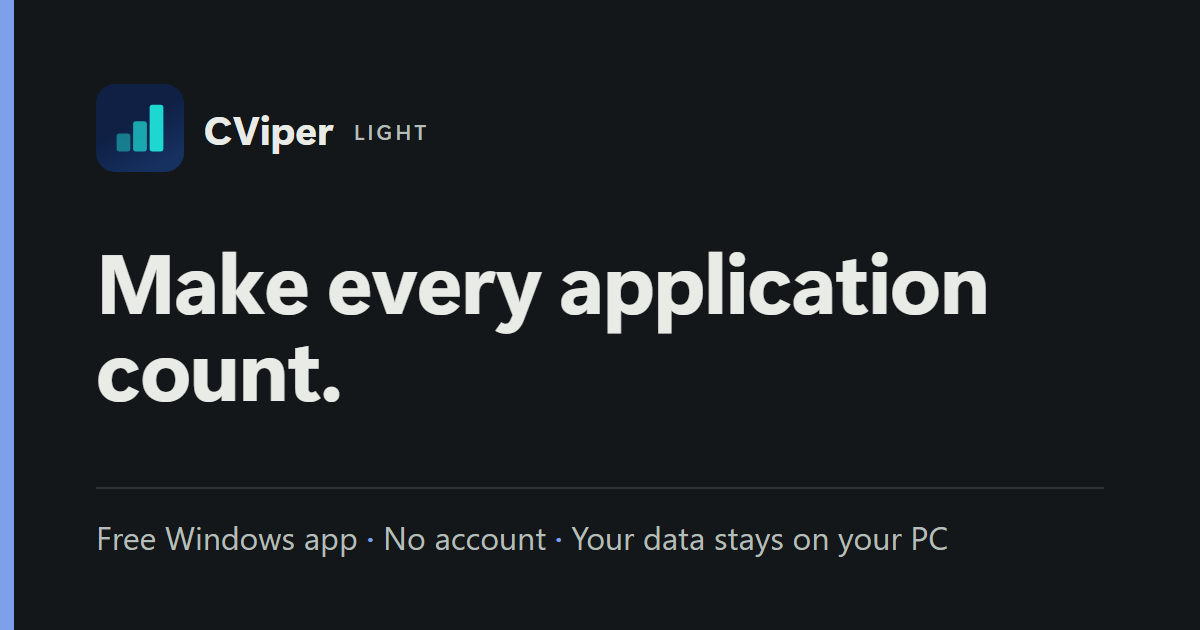
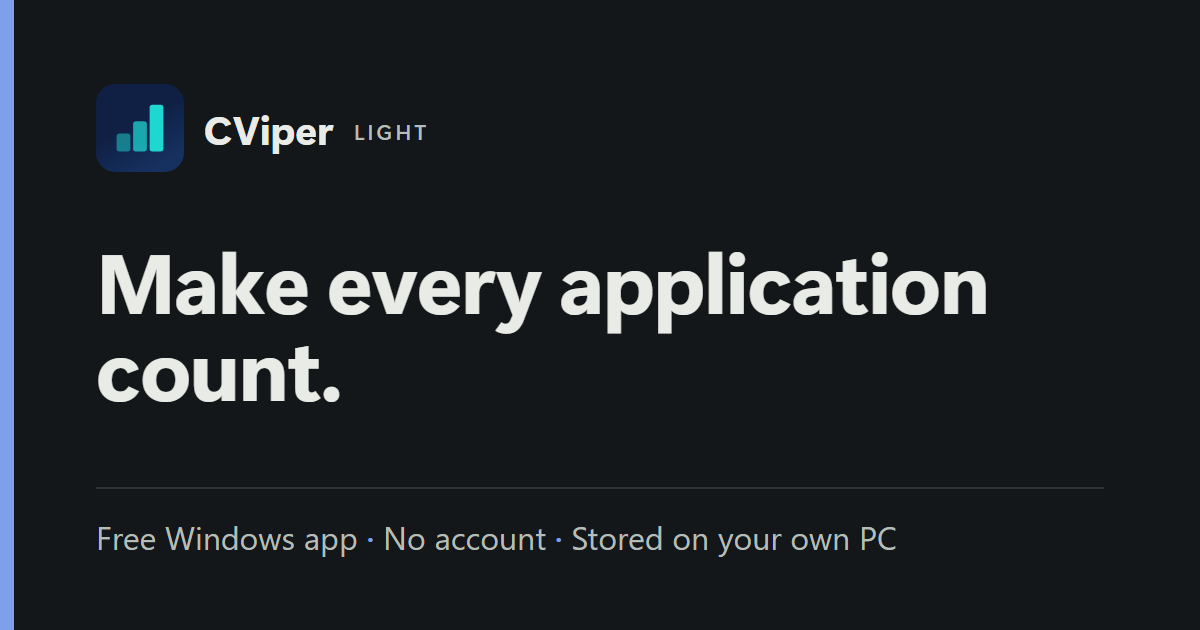
fix(landing): name all six AI providers, and stop saying data "stays on your PC" (cviper-light L-233)
- FAQ "Where do I get an AI key": the app has key cards for six providers
  (OpenAI, Anthropic, Google Gemini, Mistral, xAI Grok, OpenRouter) plus
  a user's own AI service; the page named two.
- Privacy page: transcribes the reworded short version from cviper-light
  9638d5a7 (#274) and updates the SOURCE STAMP from check_privacy_drift.py.
- og:image and its alt text said "your data stays on your PC", the
  over-claim L-233 removed from the app (the CV text goes to a cloud AI
  when the user asks). Now "Stored on your own PC". Re-rendered 1200x630.

Changed region(s): [[0.4625, 0.8143, 0.8017, 0.8746]]

diff --git a/index.html b/index.html
@@ -17,7 +17,7 @@
 <meta property="og:image" content="https://cviper.ai/og-image.png">
 <meta property="og:image:width" content="1200">
 <meta property="og:image:height" content="630">
-<meta property="og:image:alt" content="CViper Light logo with the headline: Make every application count. Free Windows app, no account, your data stays on your PC.">
+<meta property="og:image:alt" content="CViper Light logo with the headline: Make every application count. Free Windows app, no account, stored on your own PC.">
 <meta name="twitter:card" content="summary_large_image">
 
 <!--
@@ -240,7 +240,7 @@ footer .paused{margin-top:16px;max-width:62ch}
       <h2>Before you download.</h2>
       <div class="faq">
         <details><summary>Is it really free?</summary><p>Yes. The app is free and there is no paid tier. Tracking your applications, the basic CV match and job search all work with no key and nothing set up. If you want an AI to read your CV properly, add your own key and pay the provider directly — typically a few pence for a CV check — or run a model on your own PC for nothing.</p></details>
-        <details><summary>Where do I get an AI key, and what does it cost?</summary><p>From the provider you choose, under their API keys page. Today the app has a key screen for OpenAI (<a href="https://platform.openai.com/api-keys">platform.openai.com/api-keys</a>) and for Anthropic (<a href="https://console.anthropic.com/settings/keys">console.anthropic.com/settings/keys</a>); both bill your own account, and a typical CV check costs a few pence with either. The app tests the key before it saves it, keeps it in your computer's credential store, and never shows it back. Prefer no key at all? Install Ollama and the app uses a model on your own PC for free.</p></details>
+        <details><summary>Where do I get an AI key, and what does it cost?</summary><p>From the provider you choose, under their API keys page. The app has a key card for six: OpenAI, Anthropic, Google Gemini, Mistral, xAI Grok and OpenRouter — each card links to that provider's key page. You can also point it at an AI service of your own. Each provider bills your own account, and a typical CV check costs a few pence. The app tests the key before it saves it, keeps it in your computer's credential store, and never shows it back. Prefer no key at all? Install Ollama and the app uses a model on your own PC for free.</p></details>
         <details><summary>Is my CV safe?</summary><p>It stays on your computer until you ask for an AI reading of it. Then the text goes from your PC straight to the provider whose key you added, under that provider's API terms — not through us. We never see it. Pick a model running on your own PC instead and it does not leave at all.</p></details>
         <details><summary>How do I download it?</summary><p>On Windows, press the Download button at the top of this page, or <a href="https://github.com/stevenbrady1/cviper-light/releases/latest/download/CViper-Light-Windows-x64.exe">download the installer here</a> — one file, CViper-Light-Windows-x64.exe, always the newest version. It is not in the Microsoft Store yet, so your browser and Windows may warn you the first time; <a href="/windows-warning/">here is how to get past the warning, and how to check the file</a>. Every build is made in public by the repo's own release workflow, so you can see exactly what produced the file you are installing, and the <a href="https://github.com/stevenbrady1/cviper-light/releases">releases page</a> lists every file with its SHA-256 checksum. macOS and Linux are not offered for now.</p></details>
         <details><summary>Does it make things up?</summary><p>It is designed not to. It reads your CV and tells you how it compares with the advert — it does not write CV content for you, and it does not add skills or jobs you did not give it. Always read the result before you act on it.</p></details>

diff --git a/privacy/index.html b/privacy/index.html
@@ -38,16 +38,17 @@
   SOURCE STAMP - which version of the app this page describes
   ---------------------------------------------------------------------------
       source file    docs/app-store/privacy-policy.md
-      last changed   ec069c9483be055794ba8007121617ee9c38e50a   (on main)
-                     "feat: the Ollama hint says what to do in plain words
-                      and links to the download page (L-240)"
-                     Adds ollama.com as a page the app opens in your
-                     browser. It takes effect in the next app release
-                     after 0.9.0. Before it, dad382ce (L-230) changed the
-                     version line to 0.9.0.
+      last changed   9638d5a76f8a406e317e5b877e91c686a1c68b7a   (on main)
+                     "fix: privacy copy says what is not sent and to whom,
+                      and the guard forbids the old shapes (L-233)"
+                     Rewords the short version: we receive nothing from the
+                     app itself, but an app store or GitHub may show us
+                     download totals. Before it, ec069c94 (L-240) added
+                     ollama.com as a page the app opens in your browser.
+                     Both take effect in the next app release after 0.9.0.
       transcribed    from cviper-light at
-                     6df5ba74596b1e89dc2feb67dbdda0c62f230bc6 (2026-10-14)
-      sha256         37534a140a23f47ae5b41bc464d71eee0e090e4c51cd27041cc0e5c85492e253
+                     5394d3b4103ebfd27b032c2cae262dfe436b6d9f (2026-10-14)
+      sha256         abe6ed40b91b08b6a3152988aef8e5b055b3e30977f8528ddbd7bb730eeb081d
       app version    CViper Light 0.9.0
 
   The stamp says which version of the app this page describes. It is NOT what
@@ -170,7 +171,7 @@ a:focus-visible{outline:3px solid var(--accent);outline-offset:2px;border-radius
 
       <div class="callout">
         <p><strong>The short version.</strong> CViper Light has no account to create, no server of ours behind it and no analytics in it. Your CV text, your saved jobs and your applications are stored on your own device, in a database that belongs to the app. The app contacts another service only when you press a button that says it will, or switched it on — and only the services listed on this page. Two things happen on their own: when the app starts it reads this app’s GitHub releases to see whether there is a newer version, unless you switch that off in Settings; and it asks this same computer whether Ollama is running, a request that never leaves it.</p>
-        <p>We — the people who make CViper Light — receive nothing from it. Not your CV, not your searches, not your keys, not whether you use it at all. The one address on this page that is ours, cviper.ai, is only ever opened in your own browser when you tap a line that names it; the app never contacts it, and what that site sees is what your browser shows it.</p>
+        <p>We — the people who make CViper Light — receive nothing from the app itself. Not your CV, not your searches, not your keys. The places that hand it out — an app store, or GitHub, where the update check looks — may show us totals, such as how many times it was downloaded, without saying who you are. The one address on this page that is ours, cviper.ai, is only ever opened in your own browser when you tap a line that names it; the app never contacts it, and what that site sees is what your browser shows it.</p>
       </div>
 
       <h2>What the app keeps, and where</h2>
